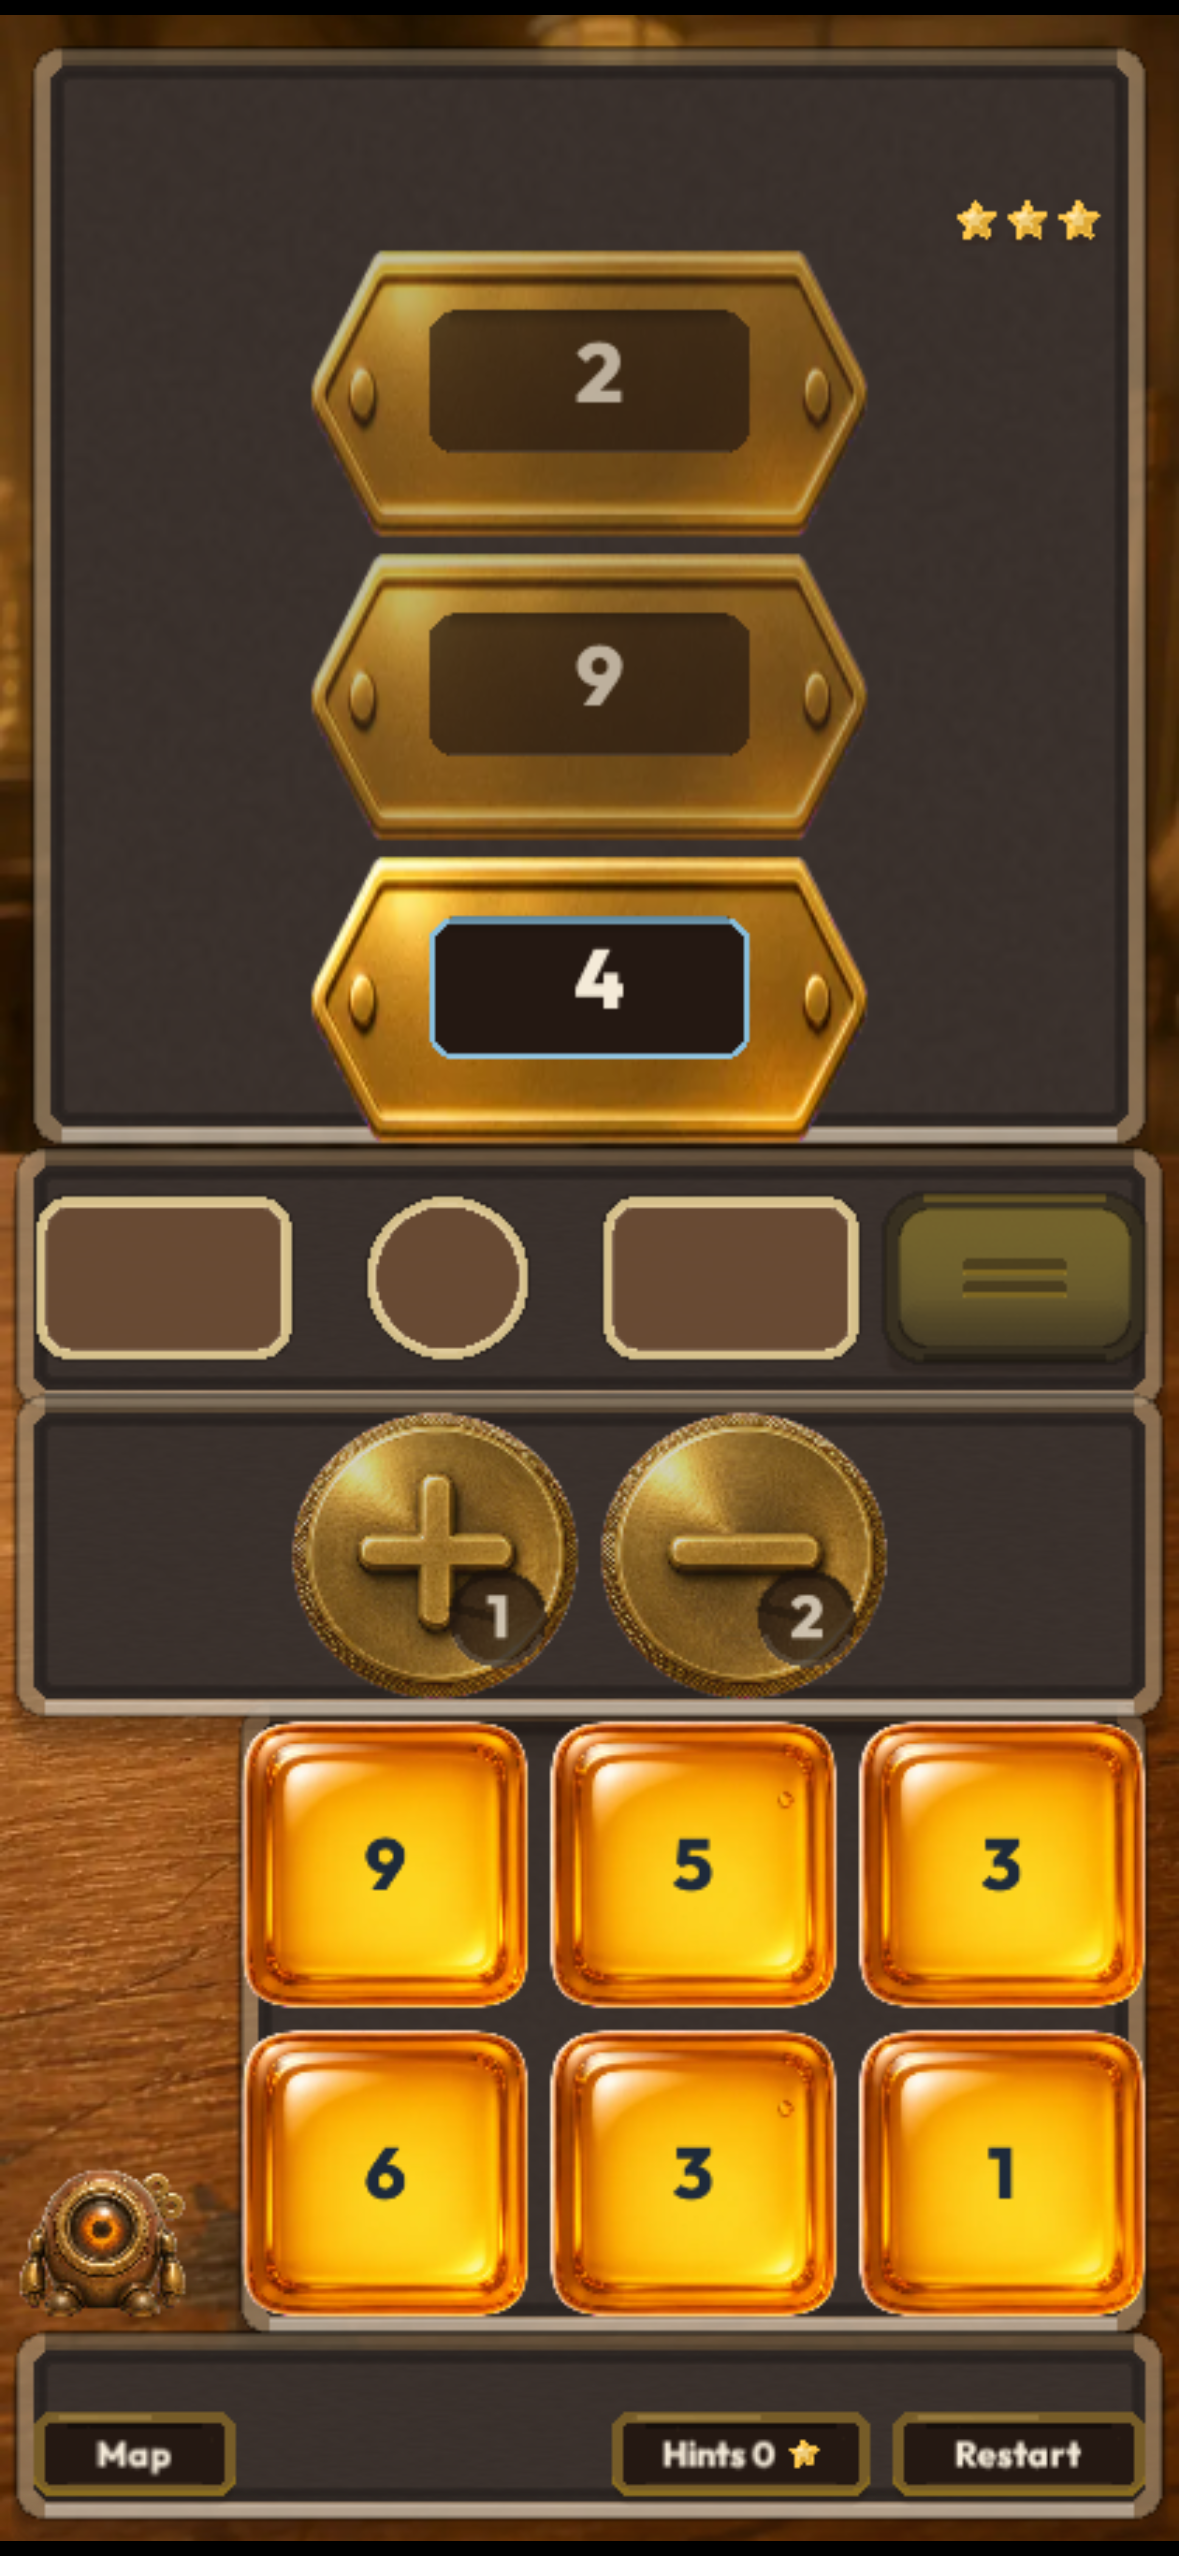
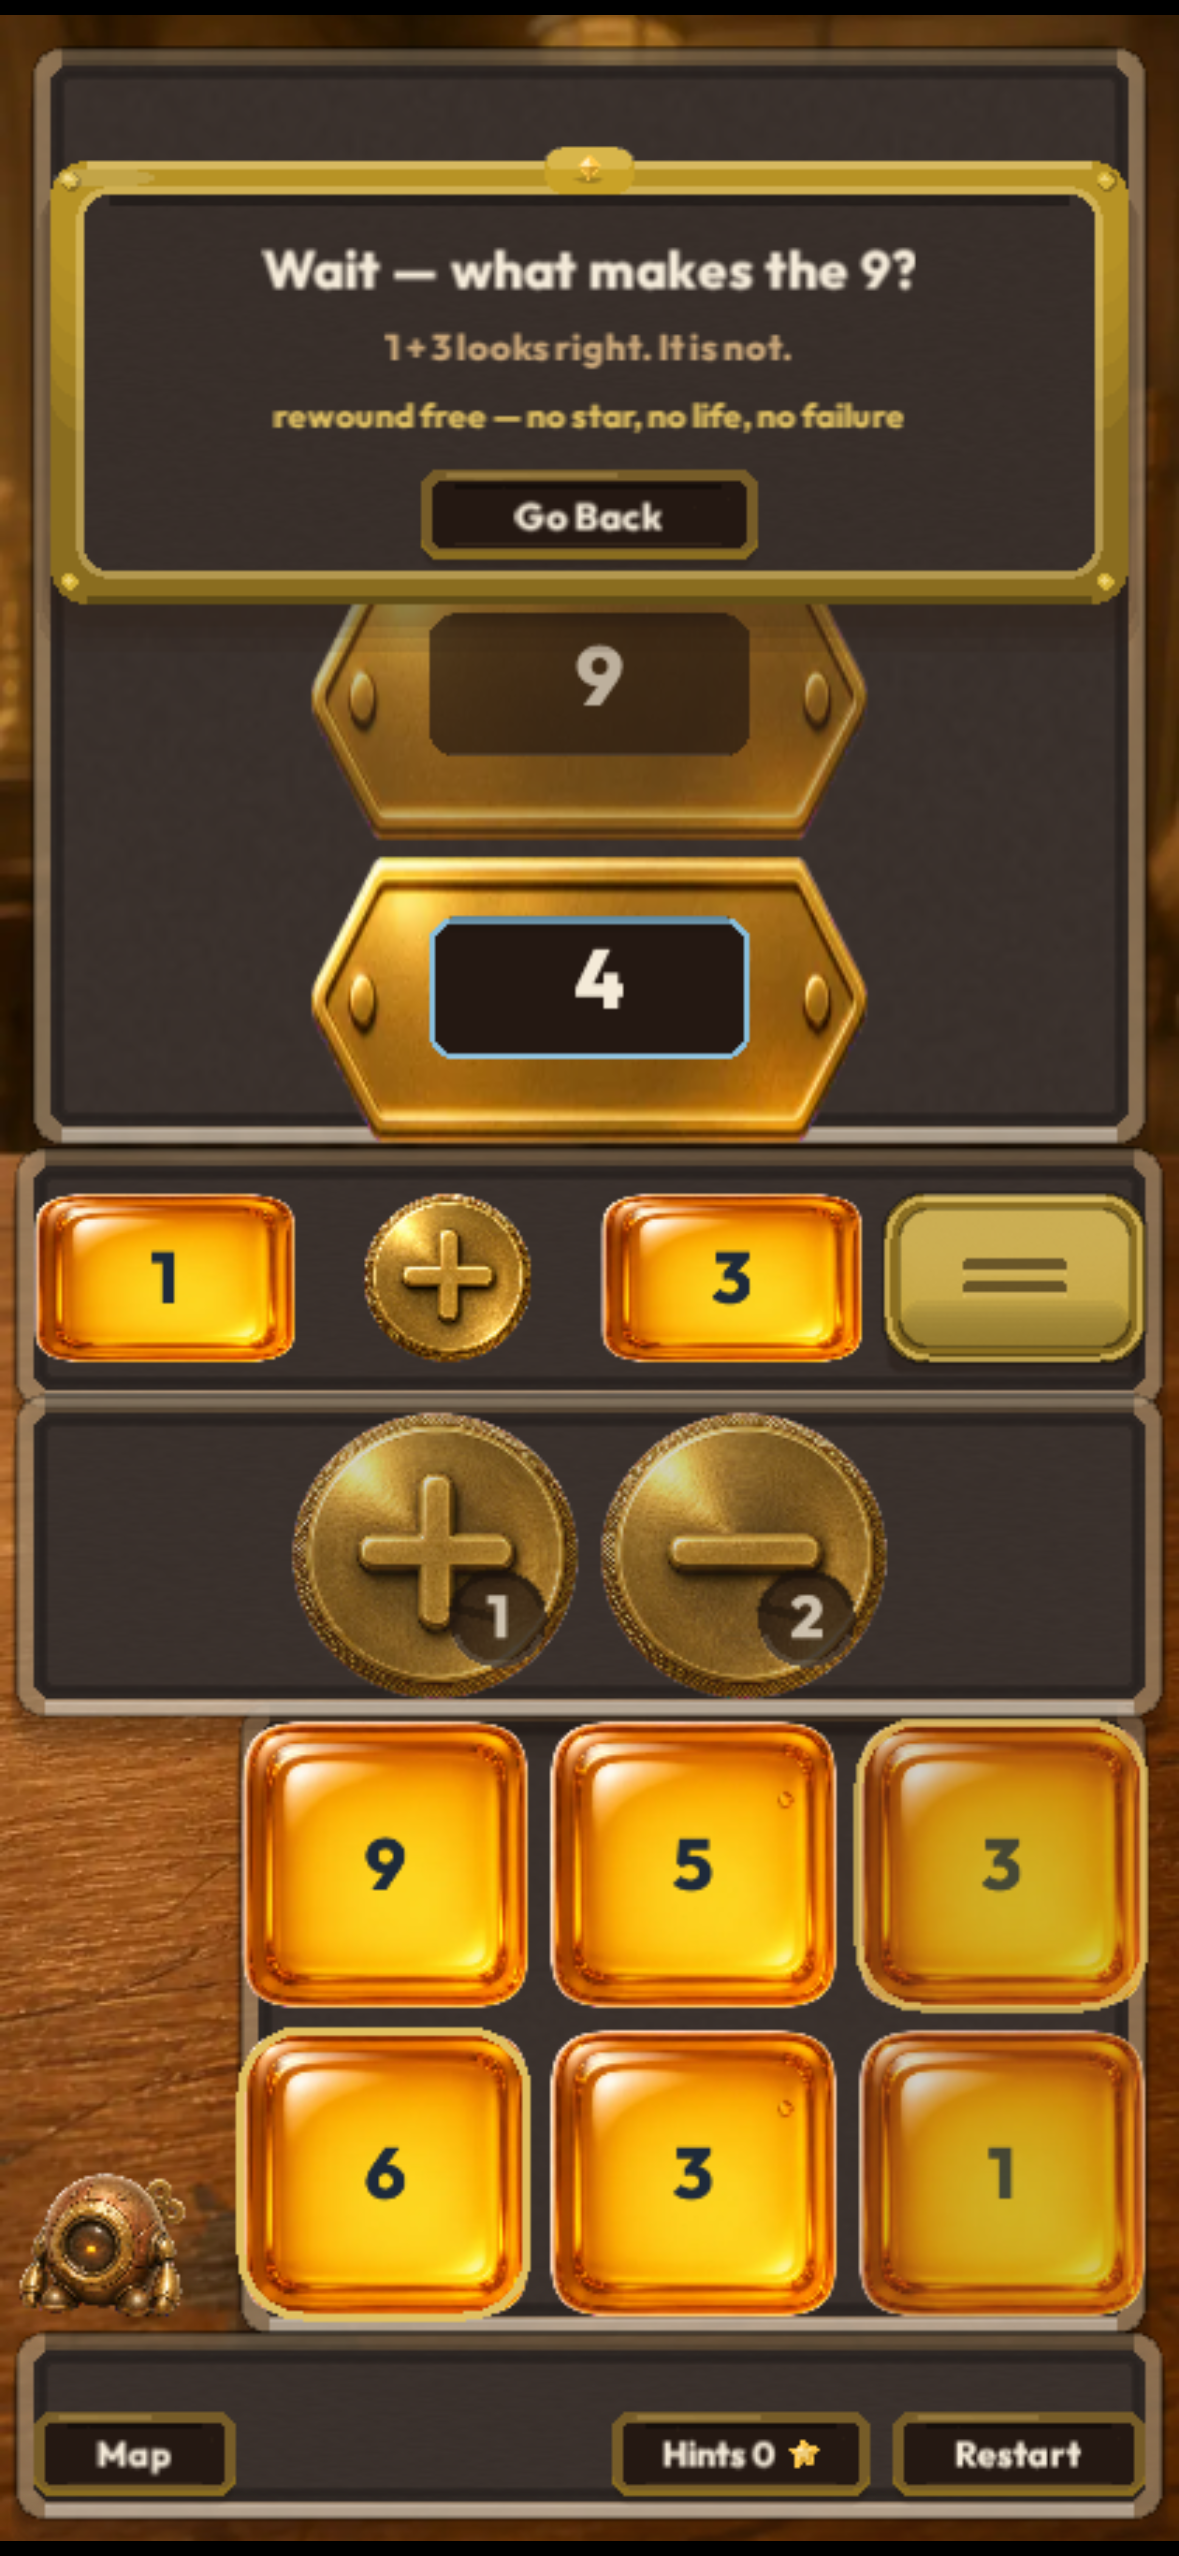
Fix planning trap review evidence
Hold the staged teaching move through the mid-commit beat and capture the settled free Go Back warning instead of collapsing after back to the before frame.

diff --git a/src/renderer/renderer.ts b/src/renderer/renderer.ts
@@ -549,6 +549,16 @@ export class Renderer {
     this.fx.removeChildren();
   }
 
+  // Review harness: force the scripted teaching state to its settled warning.
+  settleScriptedTrap(): void {
+    if (this.scriptedTrap) {
+      const { next } = this.scriptedTrap;
+      this.scriptedTrap = null;
+      this.commitState(next);
+    }
+    this.draw();
+  }
+
   apply(commands: readonly Command[]): void {
     const rejected = commands.some((c) => c.type === "reject");
 
@@ -1214,7 +1224,7 @@ export class Renderer {
 
     const caption = this.text(warning.line, 18, PALETTE.highlight);
     caption.anchor.set(0.5);
-    caption.position.set(lane.x + lane.width / 2, lane.y - 22);
+    caption.position.set(lane.x + lane.width / 2, lane.y + 20);
     caption.alpha = 0.9;
     // entry-exempt: scripted trap caption arrives with its focus treatment.
     this.root.addChild(caption);
@@ -2265,7 +2275,7 @@ export class Renderer {
             topY + 98,
             120,
             32,
-            w.scripted ? "Let Me Look" : "Got It",
+            w.scripted ? "Go Back" : "Got It",
             () => this.emit({ type: "dismissWarning" }),
           ),
         );

diff --git a/src/game/director.ts b/src/game/director.ts
@@ -708,7 +708,7 @@ export class Director {
       //
       // On an overridable warning the equation was left standing so the
       // override could replay it, so "go back" has to take it down here.
-      if (this.warning?.overridable) {
+      if (this.warning?.overridable || this.warning?.scripted) {
         this.slots = { leftTileId: null, op: null, rightTileId: null };
         this.swapArmed = null;
       }
@@ -1075,8 +1075,12 @@ export class Director {
      */
     const blocks = this.warningBlocks;
     if (blocks) {
-      this.slots = { leftTileId: null, op: null, rightTileId: null };
-      this.swapArmed = null;
+      // Keep the scripted teaching equation filled until its free Go Back
+      // acknowledgement; ordinary blocking warnings still rewind immediately.
+      if (!this.scriptedTrapLevel) {
+        this.slots = { leftTileId: null, op: null, rightTileId: null };
+        this.swapArmed = null;
+      }
       this.pendingFatal = null;
     } else {
       this.pendingFatal = { kind: "binary", leftId: left.id, rightId: right.id, op };

diff --git a/src/main.ts b/src/main.ts
@@ -619,6 +619,7 @@ Object.assign(window, {
     feel: () => renderer.feelState(),
     /** Proof harness: mute shatter FX so automaton mid-motion is photographable. */
     clearShatters: () => renderer.clearShatters(),
+    settleScriptedTrap: () => renderer.settleScriptedTrap(),
     /** Every unbounded-growth candidate the renderer holds. */
     diagnostics: () => renderer.diagnostics(),
     sprites: () => ({ missing: missingSprites(), loaded: loadedSprites(), failed: failedAtlases() }),

diff --git a/docs/review/FTUE_104_PLANNING_TRAP_REVIEW.md b/docs/review/FTUE_104_PLANNING_TRAP_REVIEW.md
@@ -1,6 +1,17 @@
-Draft-only review evidence for the 1-04 planning trap.
-Use tools/shot.mjs screens trap-before, trap-mid, and trap-after.
-Browser shot capture was blocked by local execution safety in this run.
+Draft-only review evidence for the 1-04 planning trap (PR #13; do not merge).
+
+Evidence files:
+- 01-ftue-104-before.png — clean 1-04 board before the tempting 1 + 3 = 4 commit.
+- 02-ftue-104-mid-commit.png — filled 1 + 3 equation held mid-commit, “Wait — what makes the 9?” caption, later-target ring, and scarce 3/6 tile rings.
+- 03-ftue-104-after-rewind.png — settled scripted warning with “rewound free — no star, no life, no failure” and a visible Go Back CTA.
+
+MD5:
+- 01: bcf86911a0d5c563abde7413fe517b6b
+- 02: 673728cdb9d8eb0872799590add14da8
+- 03: 1738d52f01df445b2d961d7ce0ab3a32
+
+The three frames are byte-distinct; mid differs by the filled equation/focus veil/path/caption, and after differs by the settled warning panel and free Go Back action. Captured through /workspace/run-shot.sh with ?sprites=1.
+
 Typecheck: green.
 Build: green.
 Full Vitest: green, 446 tests across 49 files.
